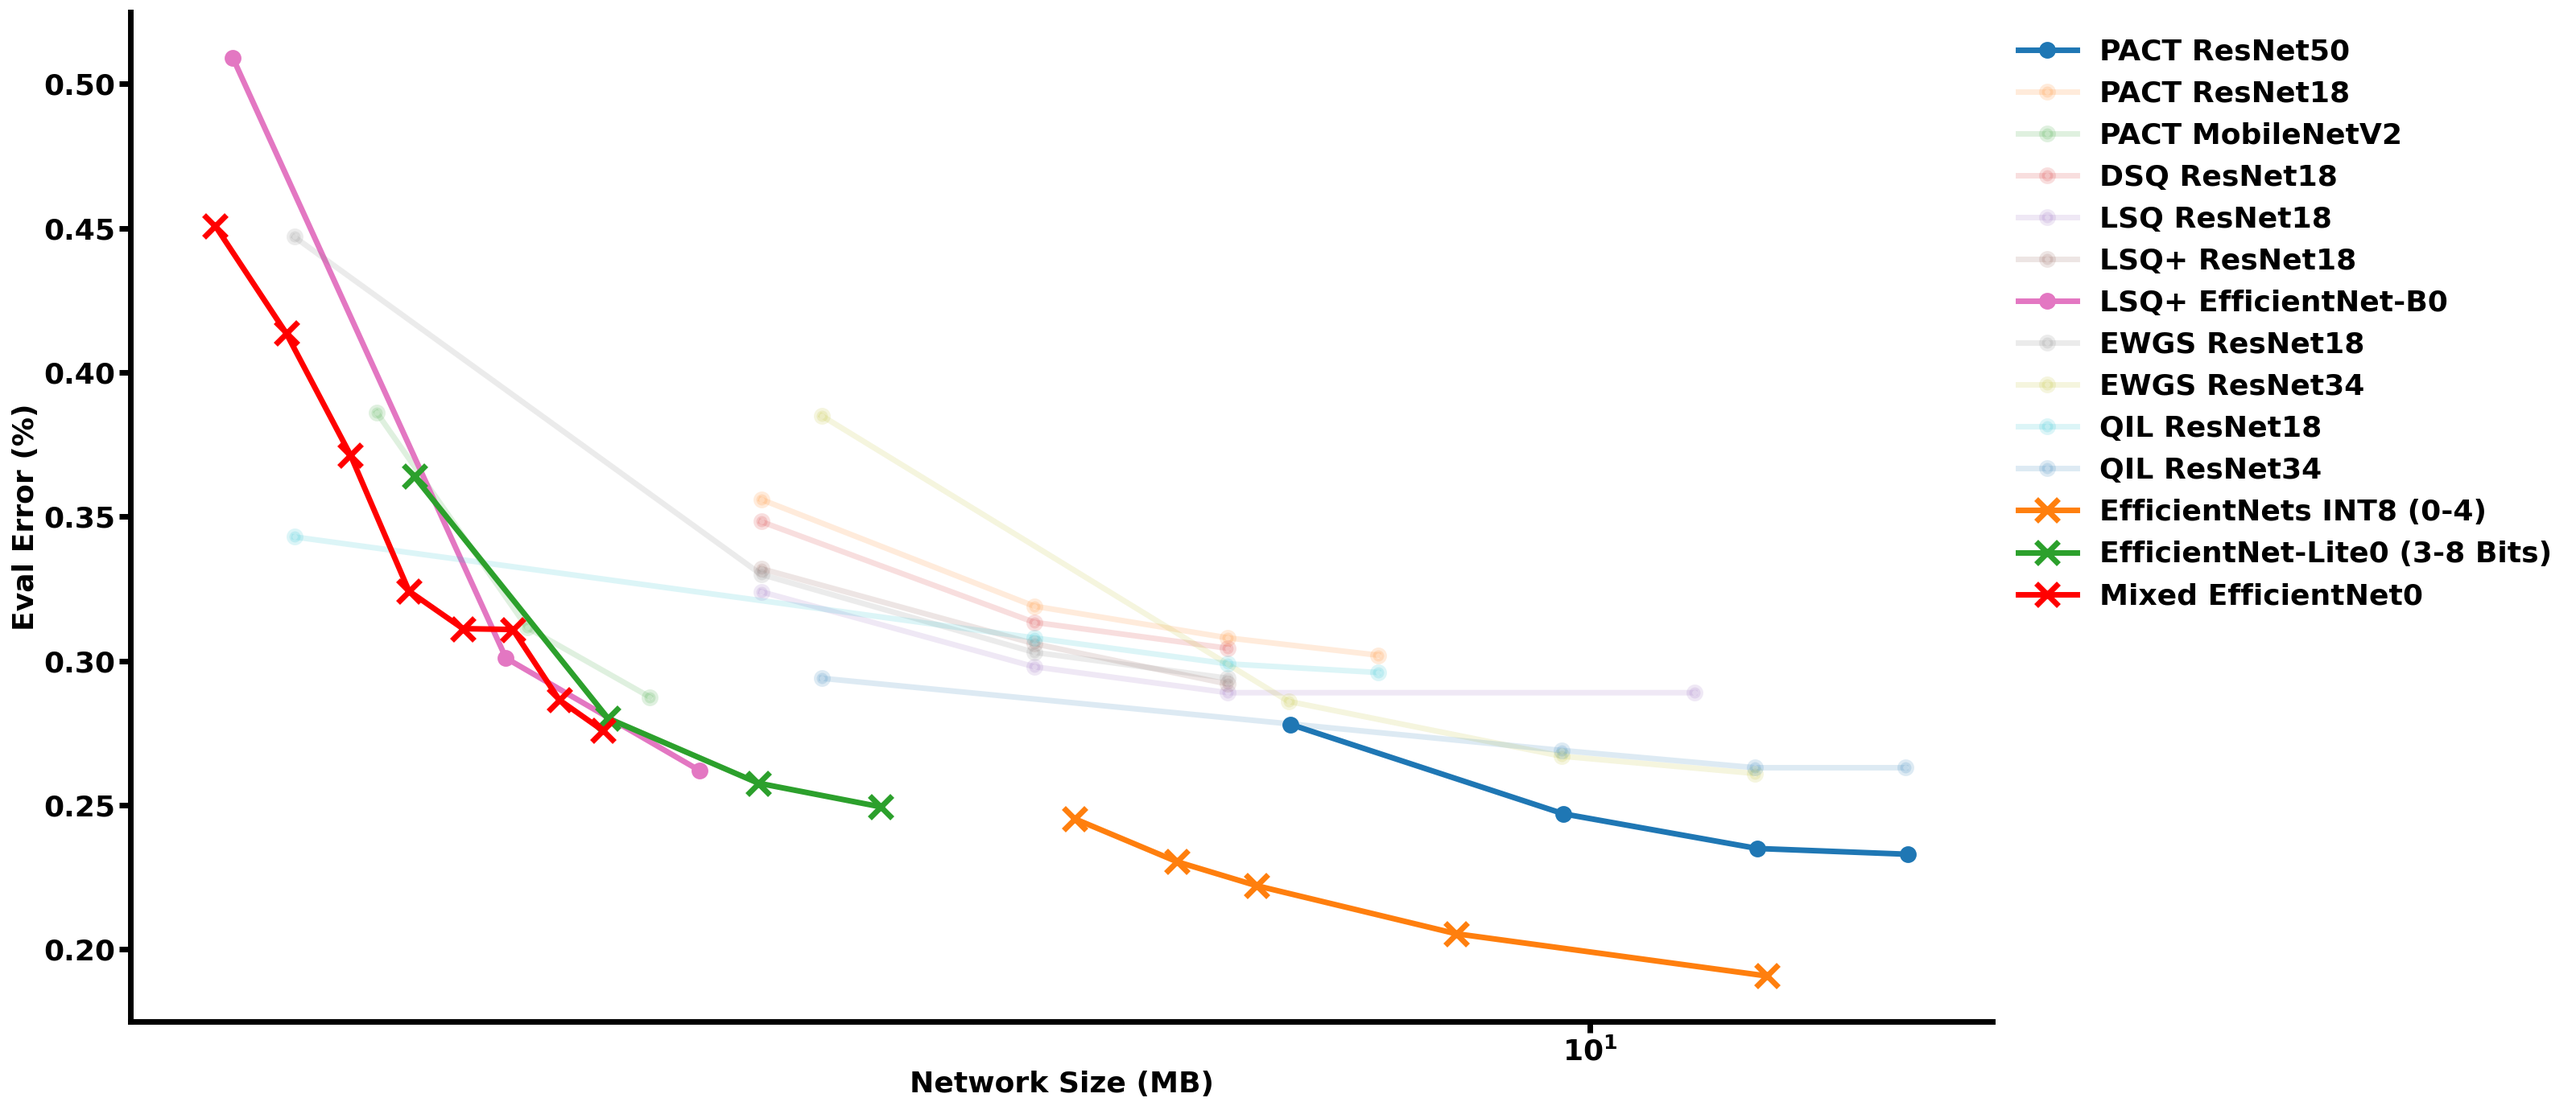
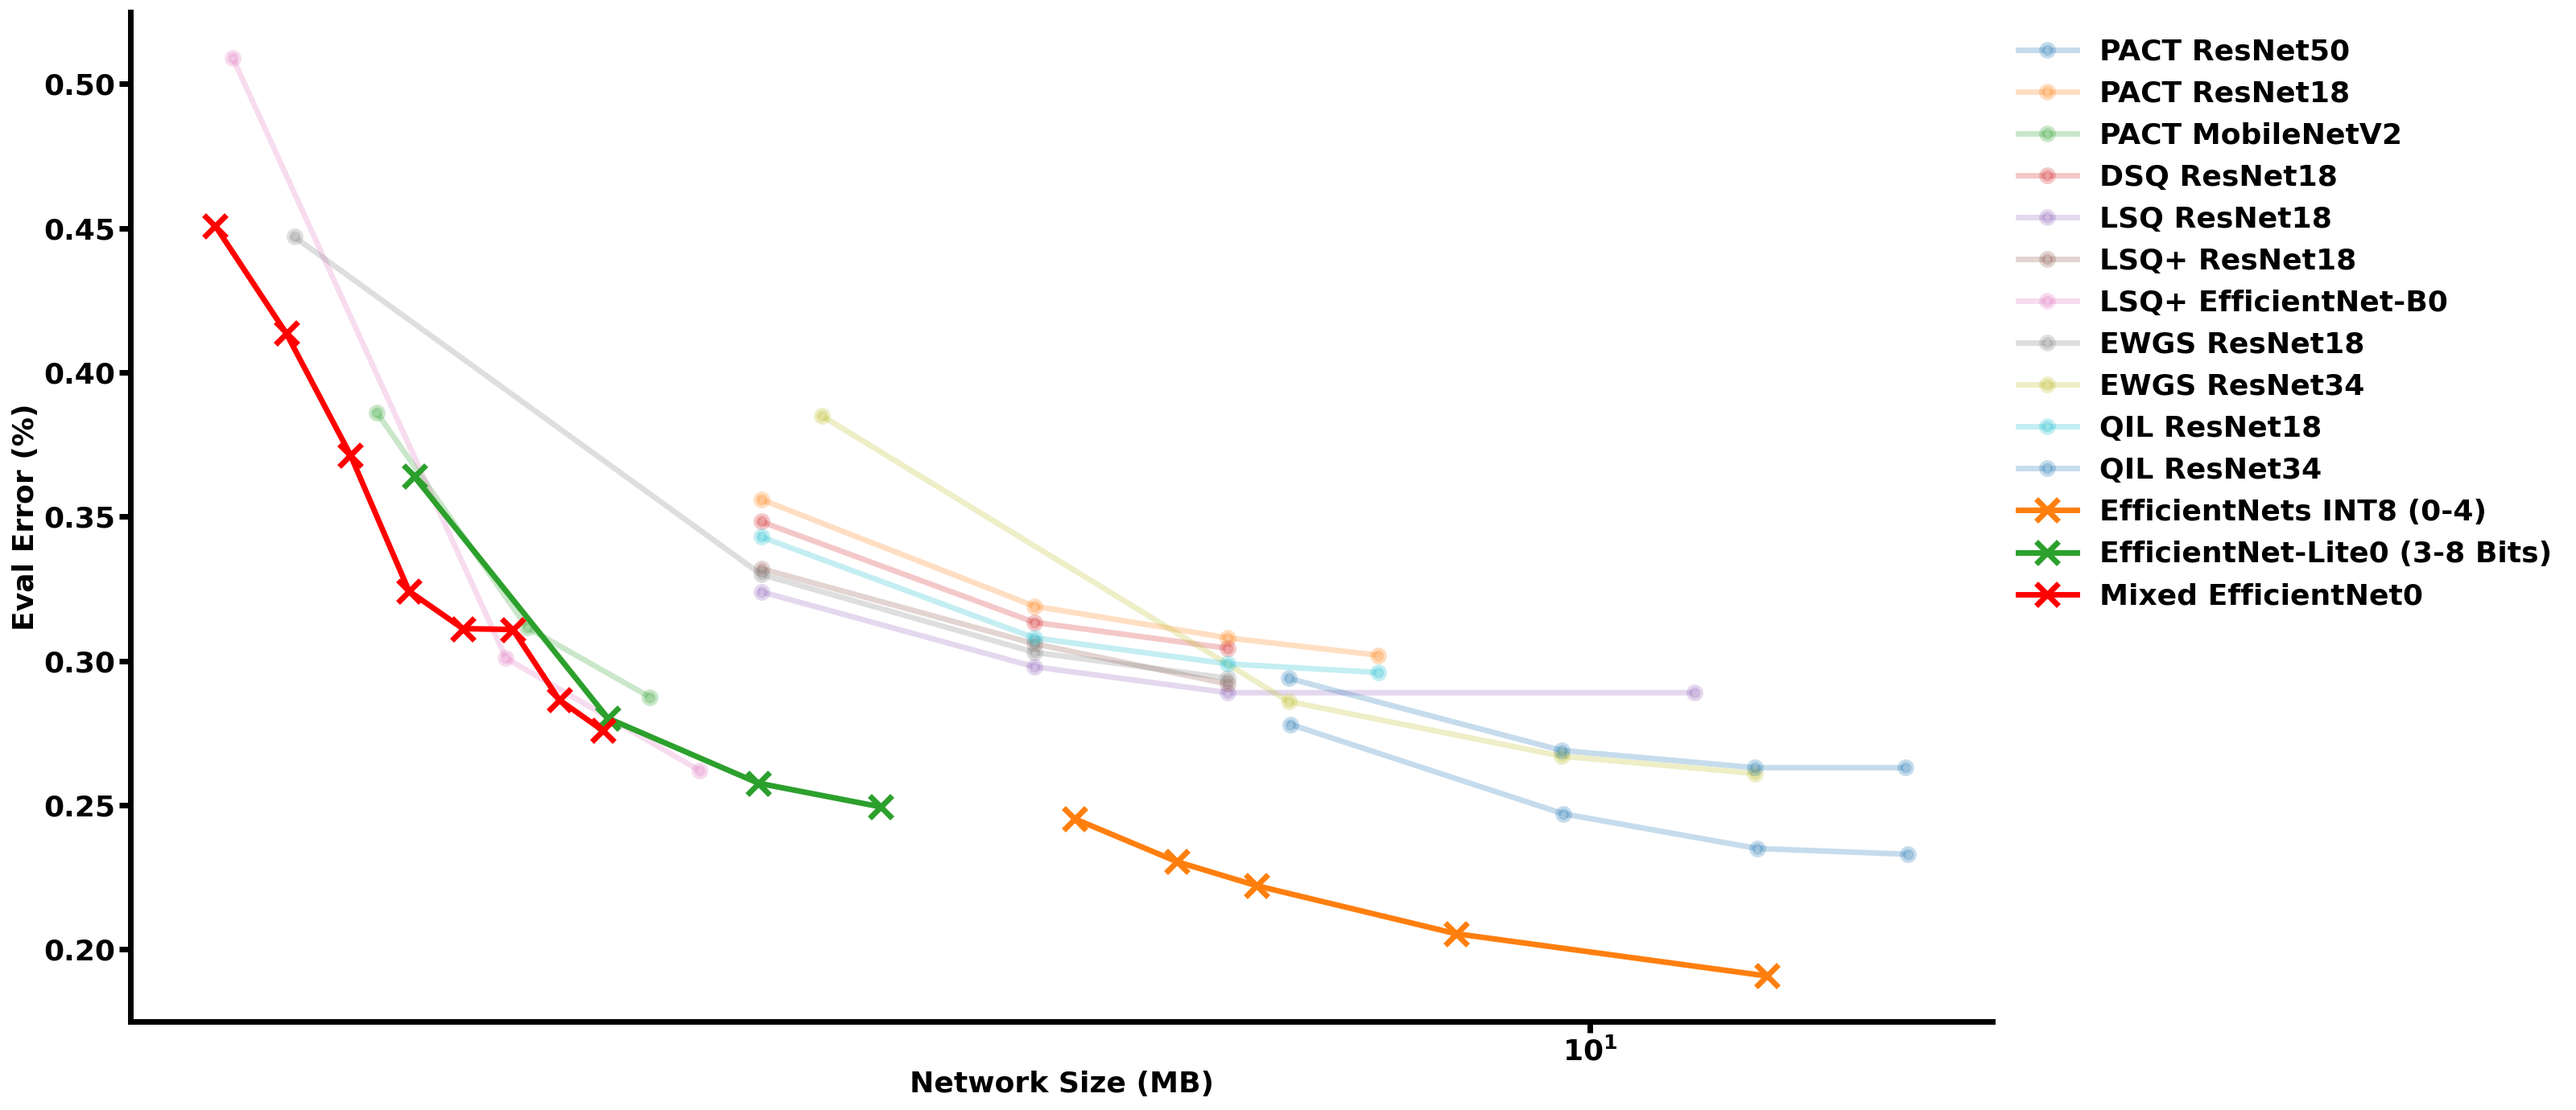
normal - figure

diff --git a/examples/efficientnet/visualization.py b/examples/efficientnet/visualization.py
@@ -533,7 +533,7 @@ competitors = {
         'eval_err': [1 - 0.722, 1 - 0.753, 1 - 0.765, 1 - 0.767],
         'size_mb': np.array([2, 3, 4, 5]) * 25636712 / 8_000_000,
         'name': 'PACT ResNet50',
-        'alpha': 1.,
+        'alpha': .25,
         # no first and last layer quant
     },
 
@@ -542,7 +542,7 @@ competitors = {
         'eval_err': [1 - 0.644, 1 - 0.681, 1 - 0.692, 1 - 0.698],
         'size_mb': np.array([2, 3, 4, 5]) * 11679912 / 8_000_000,
         'name': 'PACT ResNet18',
-        'alpha': .15,
+        'alpha': .25,
         # no first and last layer quant
     },
 
@@ -551,7 +551,7 @@ competitors = {
         'eval_err': [1 - 0.6139, 1 - 0.6884, 1 - 0.7125],
         'size_mb': np.array([4, 5, 6]) * 3300000 / 8_000_000,
         'name': 'PACT MobileNetV2',
-        'alpha': .15,
+        'alpha': .25,
     },
 
     'dsq_resnet18': {
@@ -559,7 +559,7 @@ competitors = {
         'eval_err': [1 - 0.6517, 1 - 0.6866, 1 - 0.6956],
         'size_mb': np.array([2, 3, 4]) * 11679912 / 8_000_000,
         'name': 'DSQ ResNet18',
-        'alpha': .15,
+        'alpha': .25,
     },
 
     'lsq_resnet18': {
@@ -567,7 +567,7 @@ competitors = {
         'eval_err': [1 - 0.676, 1 - 0.702, 1 - 0.711, 1 - 0.711],
         'size_mb': np.array([2, 3, 4, 8]) * 11679912 / 8_000_000,
         'name': 'LSQ ResNet18',
-        'alpha': .15,
+        'alpha': .25,
     },
 
     'lsqp_resnet18': {
@@ -575,7 +575,7 @@ competitors = {
         'eval_err': [1 - 0.668, 1 - 0.694, 1 - 0.708],
         'size_mb': np.array([2, 3, 4]) * 11679912 / 8_000_000,
         'name': 'LSQ+ ResNet18',
-        'alpha': .15,
+        'alpha': .25,
     },
 
     'lsqp_enet0': {
@@ -584,7 +584,7 @@ competitors = {
         # number might be incorrect
         'size_mb': np.array([2, 3, 4]) * 5330571 / 8_000_000,
         'name': 'LSQ+ EfficientNet-B0',
-        'alpha': 1.,
+        'alpha': .25,
     },
 
     'ewgs_resnet18': {
@@ -592,7 +592,7 @@ competitors = {
         'eval_err': [1 - 0.553, 1 - 0.67, 1 - 0.697, 1 - 0.706],
         'size_mb': np.array([1, 2, 3, 4]) * 11679912 / 8_000_000,
         'name': 'EWGS ResNet18',
-        'alpha': .15,
+        'alpha': .25,
     },
 
     'ewgs_resnet34': {
@@ -600,26 +600,26 @@ competitors = {
         'eval_err': [1 - 0.615, 1 - 0.714, 1 - 0.733, 1 - 0.739],
         'size_mb': np.array([1, 2, 3, 4]) * 25557032 / 8_000_000,
         'name': 'EWGS ResNet34',
-        'alpha': .15,
+        'alpha': .25,
     },
 
     'qil_resnet18': {
         # We did not quantize the first and the last layers as was done in
         # https://arxiv.org/abs/1808.05779
         'eval_err': [1 - 0.704, 1 - 0.701, 1 - 0.692, 1 - 0.657],
-        'size_mb': np.array([5, 4, 3, 1]) * 11679912 / 8_000_000,
+        'size_mb': np.array([5, 4, 3, 2]) * 11679912 / 8_000_000,
         'name': 'QIL ResNet18',
-        'alpha': .15,
+        'alpha': .25,
         # no first and last layer quant
     },
 
     'qil_resnet34': {
-    # We did not quantize the first and the last layers as was done in
+        # We did not quantize the first and the last layers as was done in
         # https://arxiv.org/abs/1808.05779
         'eval_err': [1 - 0.737, 1 - 0.737, 1 - 0.731, 1 - 0.706],
-        'size_mb': np.array([5, 4, 3, 1]) * 25557032 / 8_000_000,
+        'size_mb': np.array([5, 4, 3, 2]) * 25557032 / 8_000_000,
         'name': 'QIL ResNet34',
-        'alpha': .15,
+        'alpha': .25,
         # no first and last layer quant
     },
 
@@ -775,8 +775,8 @@ def plot_surrogate():
 
   # times = get_times_rel_ste()
   times = np.array([0.00000000e+00, 4.57459557e-01, 4.45819267e-01,
-                    2.40027758e-04, 1.25836929e-02, 1.25226535e-01, 1.49267876e-01,
-                    1.08655595e-01])
+                    2.40027758e-04, 1.25836929e-02, 1.25226535e-01,
+                    1.49267876e-01, 1.08655595e-01])
 
   ax2 = ax.twinx()
   ax2.bar(base_x / 2 + .2, times * 100, width=.1,
